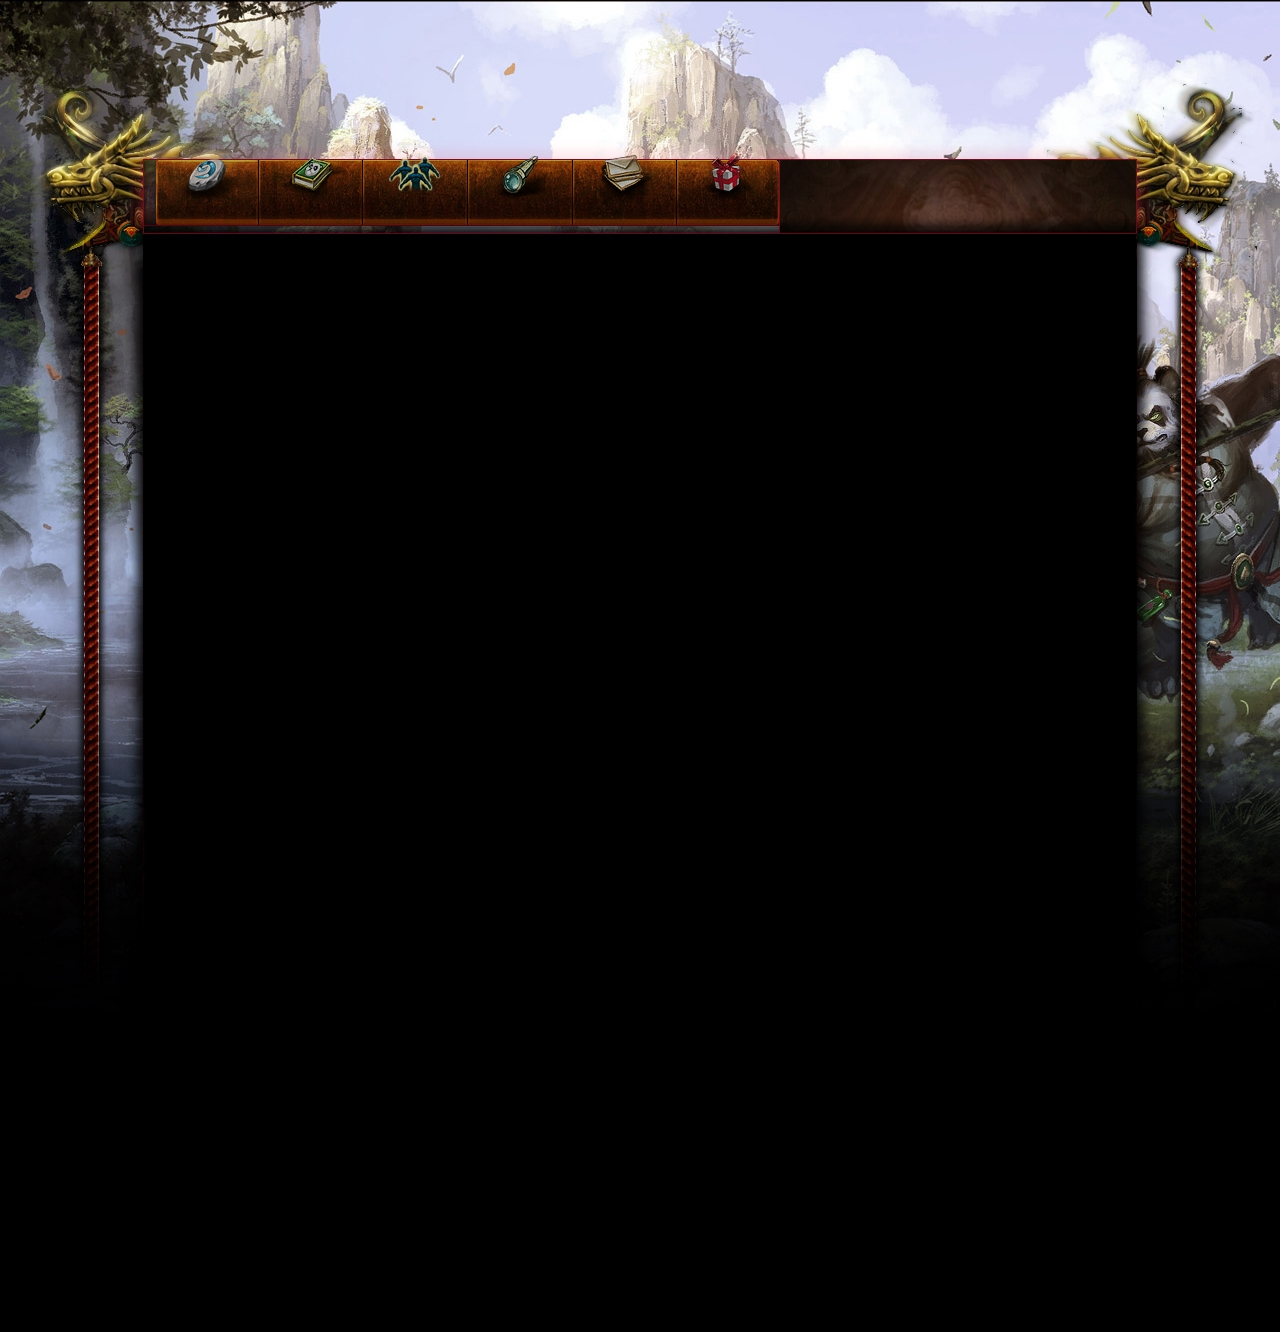
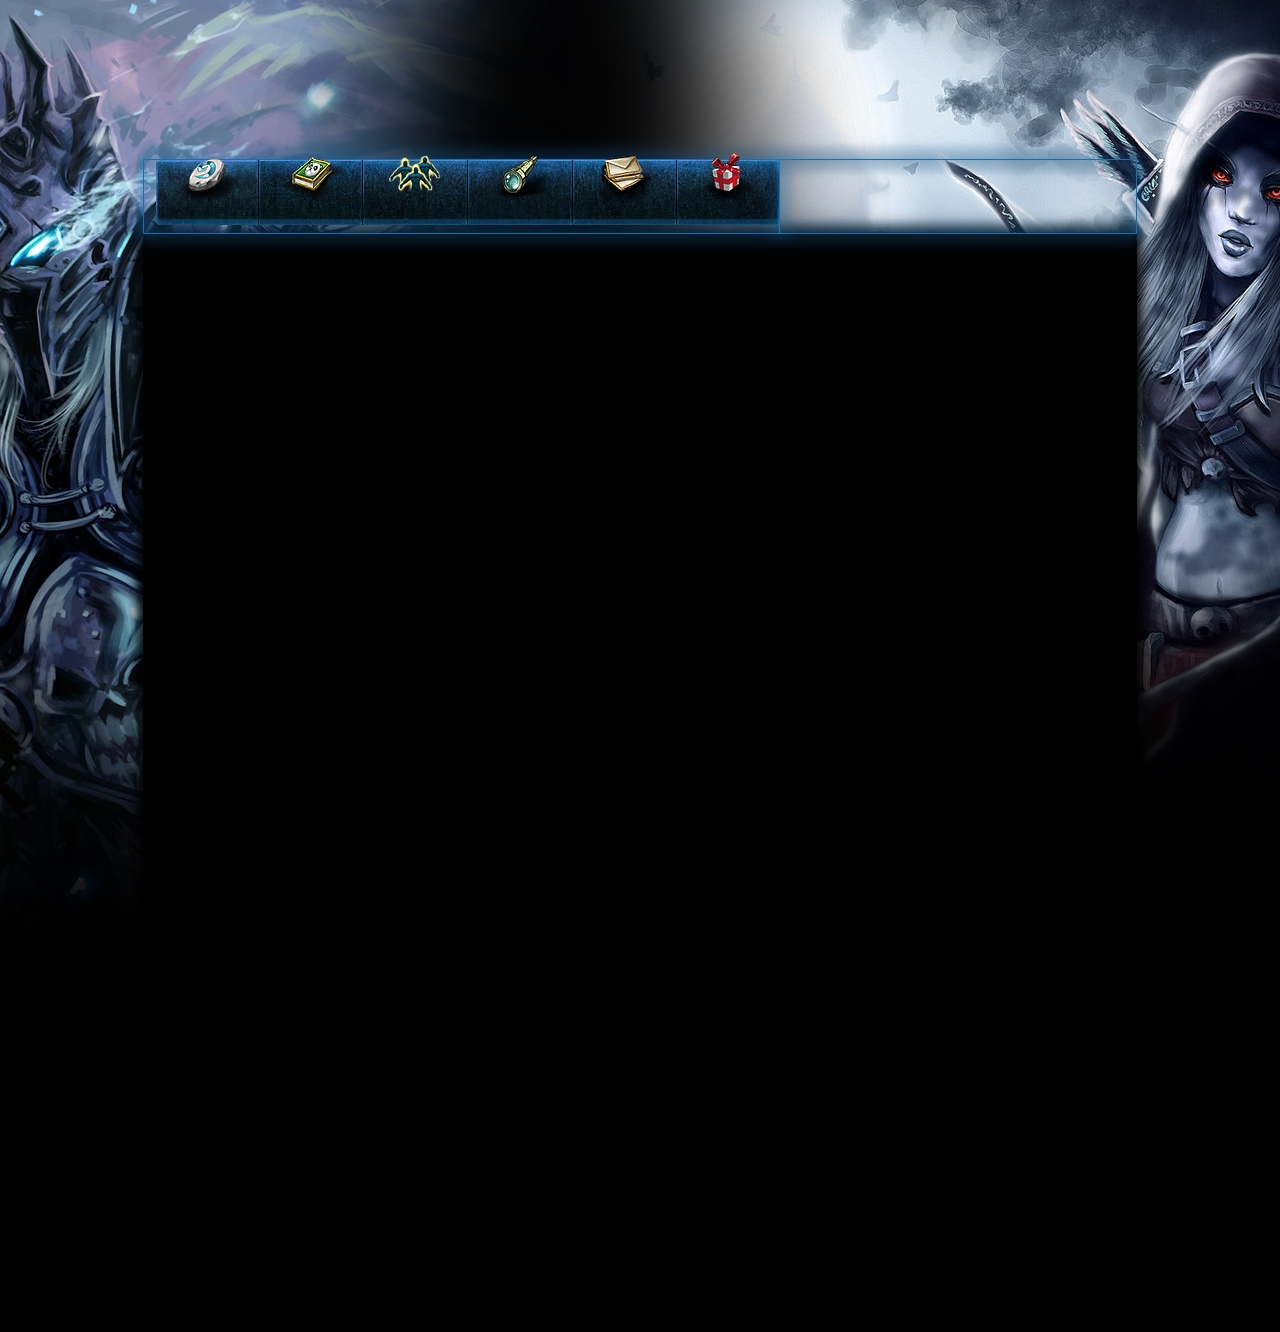
General Update and Applying the Latest Theme. If you want to download other Themes please visit: http://www.strawberry-pr0jcts.com/forum/index.php?/topic/56-official-wowfailurecms-themes/ Happy Christmas! Login Box Fixed, Thanks to: darklichny

Changed region(s): [[0.0, 0.0, 1.0, 0.6464]]

diff --git a/wow/static/local-common/css/common.css b/wow/static/local-common/css/common.css
@@ -430,7 +430,7 @@ a.ui-button.imgbutton span span span { padding: 0 5px; }
 /* embedded login */
 #login-embedded { width: 400px; position: fixed; top: 50%; left: 50%; padding: 0; margin: -200px; z-index: 9005; height: 300px; background: #000; border: 5px solid #525e67; -moz-border-radius: 3px; border-radius: 3px; -moz-box-shadow: #000 0 0 20px; box-shadow: #000 0 0 20px; }
 #login-embedded object,
-#login-embedded iframe { width: 400px; margin: 0; padding: 0; border: none; }
+#login-embedded iframe { width: 400px; margin: 0; height: 300px; padding: 0; border: none; }
 #embedded-loader { width: 200px; height: 200px; position: fixed; top: 50%; left: 50%; margin: -100px; z-index: 9005; background: url("../images/loaders/uber-loading.gif") 50% 50% no-repeat; }
 
 /* bml */

diff --git a/wow/static/css/wow.css b/wow/static/css/wow.css
@@ -315,7 +315,8 @@ tr:hover .fansite-link,
 #menu li a:hover,
 #menu li a.menu-active { background-image: url("../images/layout/menu-tab-baked.jpg"); }
 #menu li a:hover { color: white; }
-#menu li a.menu-active { color: #fff !important; -moz-box-shadow: 0 0 15px #ff7501; -webkit-box-shadow: 0 0 15px #ff7501; box-shadow: 0 0 15px #ff7501; position: relative; }
+/* for Hover Change */
+#menu li a.menu-active { color: #fff !important; -moz-box-shadow: 0 0 15px #fcfff7; -webkit-box-shadow: 0 0 15px #fcfff7; box-shadow: 0 0 15px #fcfff7; position: relative; }
 #menu li.menu-game,
 #menu li.menu-forums { width: 104px }
 #menu li.menu-community,

diff --git a/arena.php b/arena.php
@@ -4,12 +4,9 @@ $page_cat = "services";
 include("functions/arena_items_func.php");
 ?>
 
-<html xmlns="http://www.w3.org/1999/xhtml" xml:lang="en-gb">
-<meta http-equiv="content-type" content="text/html;charset=UTF-8">
+<html>
 <head>
 <title><?php echo $name = $_GET['name'];?> - <?php echo $website['title']; ?></title>
-<meta content="false" http-equiv="imagetoolbar" />
-<meta content="IE=edge,chrome=1" http-equiv="X-UA-Compatible" />
 <link rel="shortcut icon" href="http://eu.battle.net/wow/static/local-common/images/favicons/wow.ico" type="image/x-icon"/>
 <link rel="search" type="application/opensearchdescription+xml" href="http://eu.battle.net/en-gb/data/opensearch" title="Battle.net Search" />
 <link rel="stylesheet" type="text/css" media="all" href="wow/static/local-common/css/armory/common.css?" />
@@ -17,7 +14,7 @@ include("functions/arena_items_func.php");
 <!--[if IE 6]> <link rel="stylesheet" type="text/css" media="all" href="/wow/static/local-common/css/common-ie6.css?" /><![endif]-->
 <!--[if IE 7]> <link rel="stylesheet" type="text/css" media="all" href="/wow/static/local-common/css/common-ie7.css?" /><![endif]-->
 <link title="World of Warcraft - News" href="http://eu.battle.net/wow/en/feed/news" type="application/atom+xml" rel="alternate"/>
-<link rel="stylesheet" type="text/css" media="all" href="wow/static/css/armory/wow.css?" />
+<link rel="stylesheet" type="text/css" media="all" href="wow/static/css/wow.css?" />
 <link rel="stylesheet" type="text/css" media="all" href="wow/static/css/armory/profile.css?" />
 <!--[if IE]> <link rel="stylesheet" type="text/css" media="all" href="/wow/static/css/profile-ie.css?" /><![endif]-->
 <!--[if IE 6]> <link rel="stylesheet" type="text/css" media="all" href="/wow/static/css/profile-ie6.css?" /><![endif]-->

diff --git a/guild.php b/guild.php
@@ -2,8 +2,7 @@
 require_once("configs.php");
 ?>
 
-<html xmlns="http://www.w3.org/1999/xhtml" xml:lang="en-gb">
-<meta http-equiv="content-type" content="text/html;charset=UTF-8">
+<html>
 <head>
 <title>GUILD @ REALM - <?php echo $website['title']; ?></title>
 <meta content="false" http-equiv="imagetoolbar" />
@@ -15,7 +14,7 @@ require_once("configs.php");
 <!--[if IE 6]> <link rel="stylesheet" type="text/css" media="all" href="/wow/static/local-common/css/common-ie6.css" /><![endif]-->
 <!--[if IE 7]> <link rel="stylesheet" type="text/css" media="all" href="/wow/static/local-common/css/common-ie7.css" /><![endif]-->
 <link title="World of Warcraft - News" href="http://eu.battle.net/wow/en/feed/news" type="application/atom+xml" rel="alternate"/>
-<link rel="stylesheet" type="text/css" media="all" href="wow/static/css/armory/wow.css" />
+<link rel="stylesheet" type="text/css" media="all" href="wow/static/css/wow.css" />
 <link rel="stylesheet" type="text/css" media="all" href="wow/static/css/armory/profile.css" />
 <!--[if IE]> <link rel="stylesheet" type="text/css" media="all" href="/wow/static/css/profile-ie.css" /><![endif]-->
 <!--[if IE 6]> <link rel="stylesheet" type="text/css" media="all" href="/wow/static/css/profile-ie6.css" /><![endif]-->

diff --git a/login.php b/login.php
@@ -34,7 +34,7 @@ include("configs.php");
 	</head>
   <body>
     <div id="embedded-login">
-      <h2>World of Warcraft</h2>
+      <h2><?php echo $website['title']; ?></h2>
   <?php
   
   if(!isset($_SESSION['username'])){
@@ -126,30 +126,7 @@ include("configs.php");
     echo "<h3><font color='green'>You're Logged In</font></h3>";
     
   } ?>
-  
-  <ul id="help-links">
-
-
-      <li class="icon-pass">
-        <a href="#">Can't log in</a>?
-      </li>
-
-
-        <li class="icon-signup">
-          Don't have an account yet? <a href="register.php">Sign up now</a>!
-        </li>
-
-      <li class="icon-secure">
-        Learn how to <a href="#">protect your account</a>!
-      </li>
-
-
-
-
-  </ul>
-  <br /><br />
-    
-    <script type="text/javascript">
+        <script type="text/javascript">
 			$(function() {
 				$("#ssl-trigger").click(function() {
 					updateParent('onload', 'height', $(document).height() + 76);
